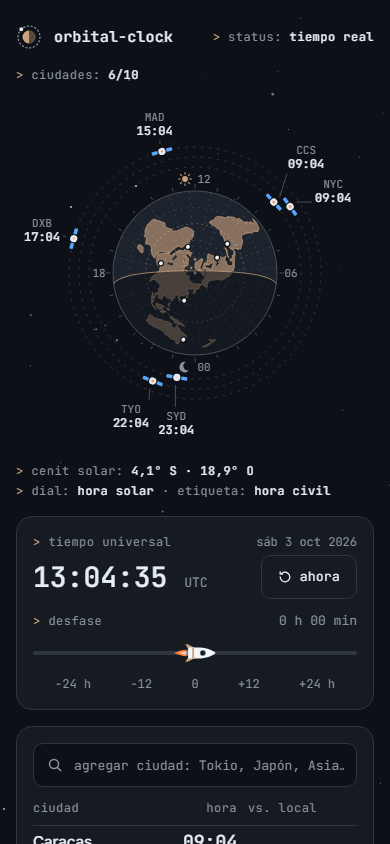
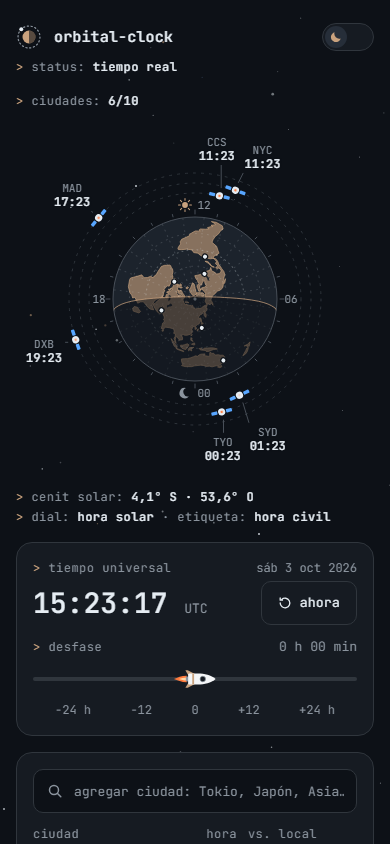
docs: mention the theme switch and refresh previews

diff --git a/README.md b/README.md
@@ -21,6 +21,7 @@
 - A table lists the same cities with their UTC offset, the difference from your own time zone and whether it is day or night there.
 - Search any IANA time zone by city, country or region — accents are ignored, so `bogota` finds Bogotá. Caracas is there by default; add up to ten cities, remove them, and the list survives a reload (`localStorage`).
 - Drag time ±24 h with the slider, or grab the globe with a mouse and turn it: the Earth spins, the cities orbit from day into night and every clock rolls with them. **ahora** snaps back to real time.
+- A switch in the header flips between dark and light mode: the same sky redrawn as a star chart on paper, where the night side of the globe becomes a wash of blue ink. The choice is remembered and shared across the Plutón series.
 
 ### What makes it technically interesting
 
@@ -65,6 +66,7 @@ It also works as-is on GitHub Pages.
 - Una tabla repite las mismas ciudades con su desfase UTC, la diferencia respecto a tu zona horaria y si allí es de día o de noche.
 - Busca cualquier huso IANA por ciudad, país o región, sin distinguir acentos: `bogota` encuentra Bogotá. Caracas viene por defecto; puedes agregar hasta diez ciudades, quitarlas, y la lista sobrevive a una recarga (`localStorage`).
 - Arrastra el tiempo ±24 h con el control, o agarra el globo con el ratón y gíralo: la Tierra rota, las ciudades orbitan del día a la noche y todos los relojes avanzan con ellas. **ahora** vuelve al tiempo real.
+- Un interruptor en la cabecera alterna entre modo oscuro y claro: el mismo cielo redibujado como carta estelar sobre papel, donde el lado nocturno del globo pasa a ser una aguada de tinta azul. La elección se recuerda y se comparte entre los proyectos de la serie Plutón.
 
 ### Qué lo hace interesante técnicamente
 
